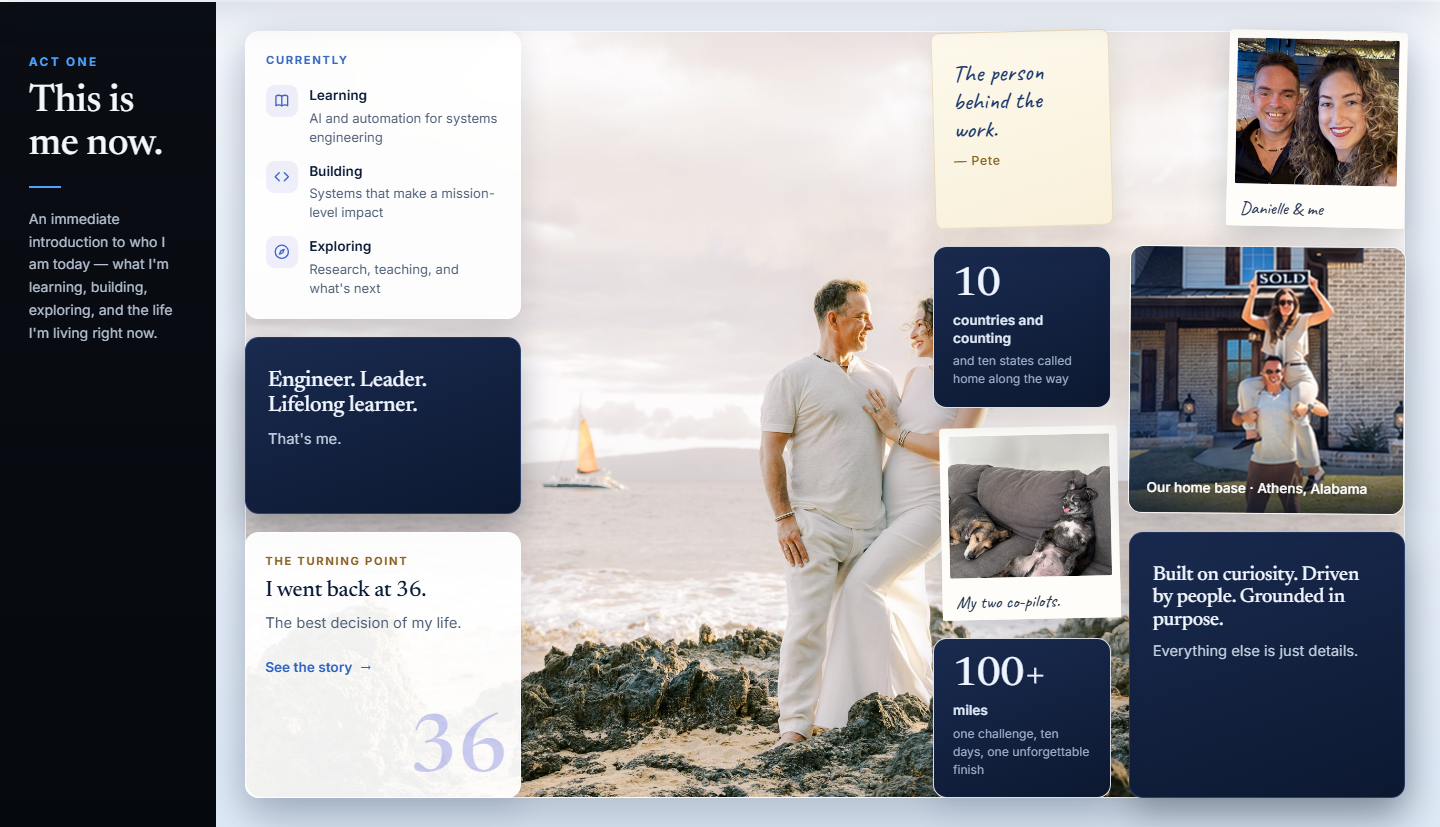
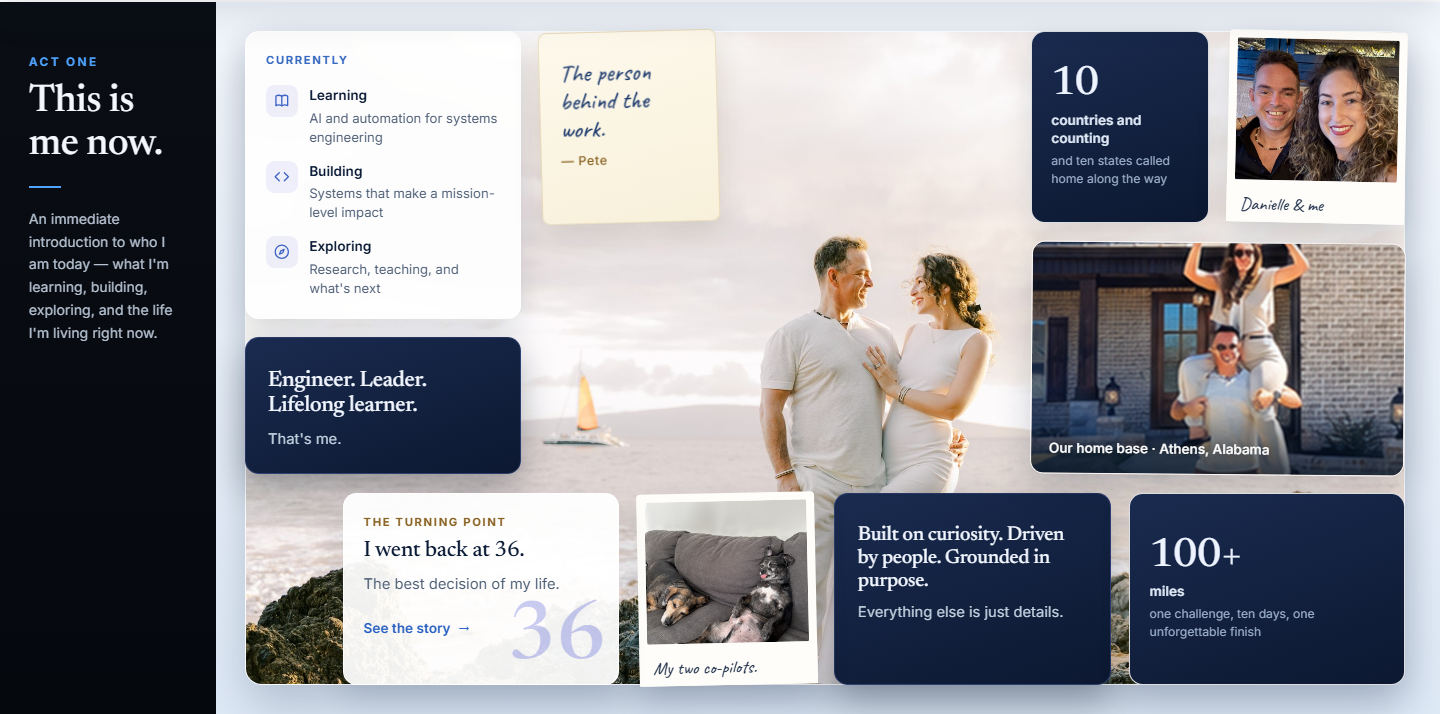
My Story Act One: keep the Maui backdrop, restore the balanced card layout
Reverts Act One's card grid to the pre-backdrop arrangement (currently,
note, stats, and the full bottom row) so the composition reads like the
earlier pass, while the Maui landscape stays as the full-bleed backdrop.
Pete & Danielle now show through the clear center gap where the cards
frame them. Collage min-height eased to match the denser grid.

diff --git a/static/css/story-acts.css b/static/css/story-acts.css
@@ -124,7 +124,7 @@ body.story-acts-page :is(h1, h2, h3) {
     padding-right: clamp(1.4rem, 2.4vw, 2.5rem);
 }
 
-#act-now .story-collage { min-height: clamp(44rem, 52vw, 52rem); }
+#act-now .story-collage { min-height: clamp(40rem, 48vw, 47rem); }
 #act-becoming .story-collage { min-height: clamp(33rem, 39vw, 39rem); }
 #act-life .story-collage { min-height: clamp(42rem, 50vw, 49rem); }
 #act-next .story-collage { min-height: clamp(30rem, 35vw, 35rem); }
